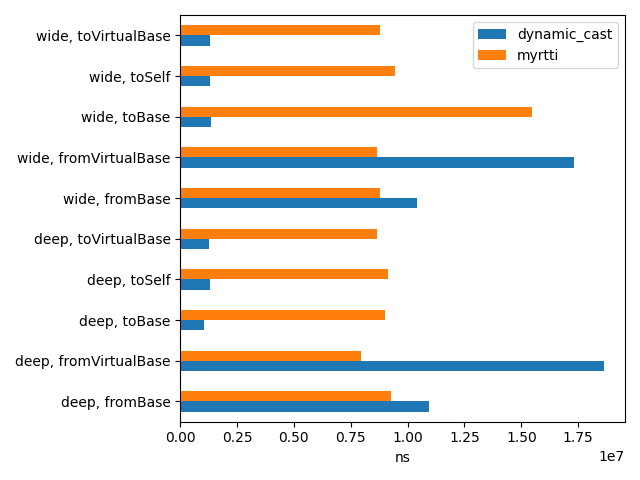
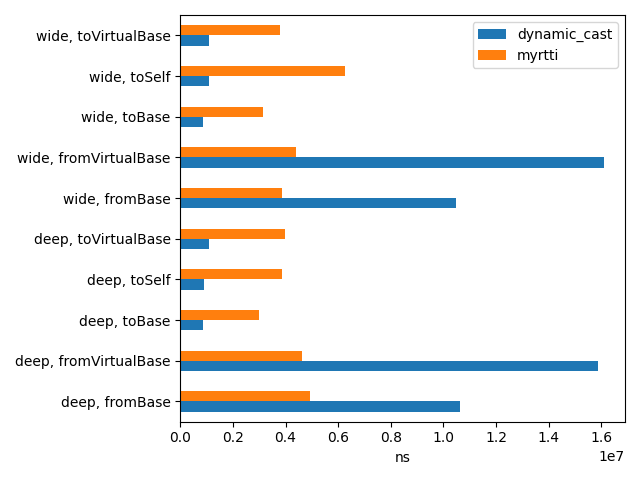
Minor fixes in code and paper.md

diff --git a/src/myrtti/include/myrtti/runtime.h b/src/myrtti/include/myrtti/runtime.h
@@ -15,15 +15,25 @@
 #ifndef MYRTTI_RUNTIME_H
 #define MYRTTI_RUNTIME_H
 
+// Uncomment if you want to use std::unordered_map for crossPtrs
+// #define CROSS_PTRS_UNORDERED_MAP
+
 #include "myrtti/class_id.h"
 #include "myrtti/class_info.h"
+#include "myrtti/hierarchy.h"
 
 #include <array>
 #include <cstdlib>
 #include <iosfwd>
 #include <iostream>
 #include <utility>
+
+#ifndef CROSS_PTRS_UNORDERED_MAP
+#include <map>
+#else
 #include <unordered_map>
+#endif
+
 #include <type_traits>
 
 namespace myrtti {
@@ -45,16 +55,18 @@ struct Object {
     const ClassInfo* rtti = info();
 
     void reportCrossPtrs() {
-        #ifdef DEBUG_REPORT_CROSS_PTRS
+        #if defined(CROSS_PTRS_UNORDERED_MAP) && defined(DEBUG_REPORT_CROSS_PTRS)
         std::size_t bc = crossPtrs.bucket_count();
         std::cout << "CrossPtrs (" << rtti->name << "):\n";
         std::cout << "  Bucket count: " << bc << "\n";
+        std::cout << "  Max load factor: " << crossPtrs.max_load_factor() << "\n";
         for (std::size_t bucket = 0; bucket!=bc; ++bucket) {
             std::size_t bs = crossPtrs.bucket_size(bucket);
             std::cout << "    Bucket[" << bucket << "] size: " << crossPtrs.bucket_size(bucket) << "\n";
             std::size_t j = 0;
             for (auto item = crossPtrs.begin(bucket); item!= crossPtrs.end(bucket); ++item, ++j) {
-                std::cout << "        item[" << j << "]: " << item->first->name << "\n";
+                const auto* classInfo = Hierarchy::instance()->getClassInfo(item->first);
+                std::cout << "        item[" << j << "]: " << classInfo << "\n";
             }
         }
         #endif
@@ -109,7 +121,16 @@ protected:
     friend class RTTI;
 
     // Note: rtti field should be initialized before crossPtrs.
+    // Note #2: Even though unordered_map seems to be faster in average, but
+    //    in case of hash collisions performance might drop N times.
+    //    so far we have switched to std::map for it seems to be more stable,
+    //    showing similar results for our case.
+
+    #ifndef CROSS_PTRS_UNORDERED_MAP
+    std::map<class_id_t, void*> crossPtrs{{class_id, this}};
+    #else
     std::unordered_map<class_id_t, void*> crossPtrs{{class_id, this}};
+    #endif
 };
 
 // Problems:
@@ -190,8 +211,5 @@ template<class T>
 inline bool isa(const Object& o) { return T::class_id == o.rtti->getId();}
 
 } // namespace myrtti
-
-std::ostream& operator <<(std::ostream& s, const myrtti::ClassInfo* clid);
-std::ostream& operator <<(std::ostream& s, const myrtti::ClassInfo& clid);
 
 #endif

diff --git a/src/myrtti/include/myrtti/hierarchy.h b/src/myrtti/include/myrtti/hierarchy.h
@@ -112,6 +112,18 @@ struct Hierarchy {
         );
     }
 
+    /// @brief Resolves ClassInfo by given class_id.
+    /// @param clsid class_id instance to be resolved for
+    /// @return ClassInfo pointer or nullptr is there is no such class
+    //          registered.
+    const ClassInfo* getClassInfo(class_id_t clsid) const {
+        auto found = idToClass.find(clsid);
+        if (found != end(idToClass))
+            return found->second;
+
+        return nullptr;
+    }
+
     Hierarchy& operator=(const Hierarchy& src) = delete;
 
     static Hierarchy* instance() {

diff --git a/src/myrtti/include/myrtti/class_id.h b/src/myrtti/include/myrtti/class_id.h
@@ -30,6 +30,9 @@ struct class_id_t {
     bool operator==(const class_id_t& rhs) const noexcept {
         return value == rhs.value;
     }
+    bool operator<(const class_id_t& rhs) const noexcept {
+        return value < rhs.value;
+    }
     // May be one day we will need this operator as well. But so far just
     // let it sink commented into git.
     //

diff --git a/tests/benchmark/details/benchmarks_common.h b/tests/benchmark/details/benchmarks_common.h
@@ -110,6 +110,8 @@ __attribute__((noinline)) ToT* __myrtti_cast(FromT o) {
     return r;
 }
 
+// TODO: consider making multiple instances to check average
+//   unordered_map performance.
 #define __MYRTTI_BENCHMARK(name, DYN_CAST, To, From) \
     BENCHMARK_F(InheritanceFixture, name)(benchmark::State& state) \
     { \

diff --git a/src/myrtti/include/myrtti/visitor.h b/src/myrtti/include/myrtti/visitor.h
@@ -92,7 +92,7 @@ namespace myrtti
             );
         }
 
-    bool visit(object_ref b, bool notFoundResult = true) {
+    bool visit(object_ref b) {
         std::cout << "VISITOR: Unwinding visit for class "
                   << b.rtti->name << "\n";
 

diff --git a/src/myrtti/include/myrtti/class_info.h b/src/myrtti/include/myrtti/class_info.h
@@ -45,4 +45,7 @@ private:
 };
 }
 
+std::ostream& operator <<(std::ostream& s, const myrtti::ClassInfo* clid);
+std::ostream& operator <<(std::ostream& s, const myrtti::ClassInfo& clid);
+
 #endif

diff --git a/doc/paper.md b/doc/paper.md
@@ -223,12 +223,11 @@ So the benefits all together are:
 
 ### Example
 
+#### figures.h
 ```c++
-#include <iostream>
-#include <memory>
-#include <vector>
-
 #include <myrtti.h>
+
+using namespace myrtti;
 
 struct Shape : RTTI<Shape>
 {
@@ -245,6 +244,18 @@ struct Square : Shape, RTTI<Square>
     // class body
     // ...
 };
+```
+
+#### main.cpp
+
+```c++
+#include <iostream>
+#include <memory>
+#include <vector>
+
+#include "figures.h"
+
+using namespace std;
 
 int main() {
     vector<shared_ptr<Object>> objs = {
@@ -271,6 +282,8 @@ structure declaration with rtti into this:
 RTTI_STRUCT_BEGIN(Square, (Shape /*need more parents?*/))
     // Structure body here
     // ...
+    virtual float area() = 0;
+
     private:
     // Private members here
     // ...
@@ -294,15 +307,23 @@ Let's take a look at internals. There are few key things:
 
 * `ClassInfo` - Describes all runtime information available for given class.
    ```c++
+   // asdasd
+   namespace myrtti {
    struct ClassInfo {
       const char* name;
       // ...
       template<typename ArrayT>
-      ClassInfo(const char* name, const ArrayT& parents) : name(name) {
+      ClassInfo(
+         const char* name,
+         class_id_t classId,
+         const ArrayT& parents
+      )
+      : name(name), id(classId) {
          Hierarchy::instance()->add(this, parents);
       }
       // ...
    };
+   }
    ```
 * `Object` - All classes with RTTI are inherited from `Object`. This is implicitly done when you inherit from `RTTI` class marker. `Object` is a place where we hold runtime type information (pointer to `ClassInfo` instance).
    ```c++
@@ -511,7 +532,7 @@ to check for its parent types.
 
 Simplified code:
 ```c++
-    bool visit(Object& b, bool notFoundResult = true) {
+    bool visit(Object& b) {
         bool neverVisited = Hierarchy::instance()->unwind(
             b.rtti->getId(),
             [&] (const ClassInfo* cls) {
